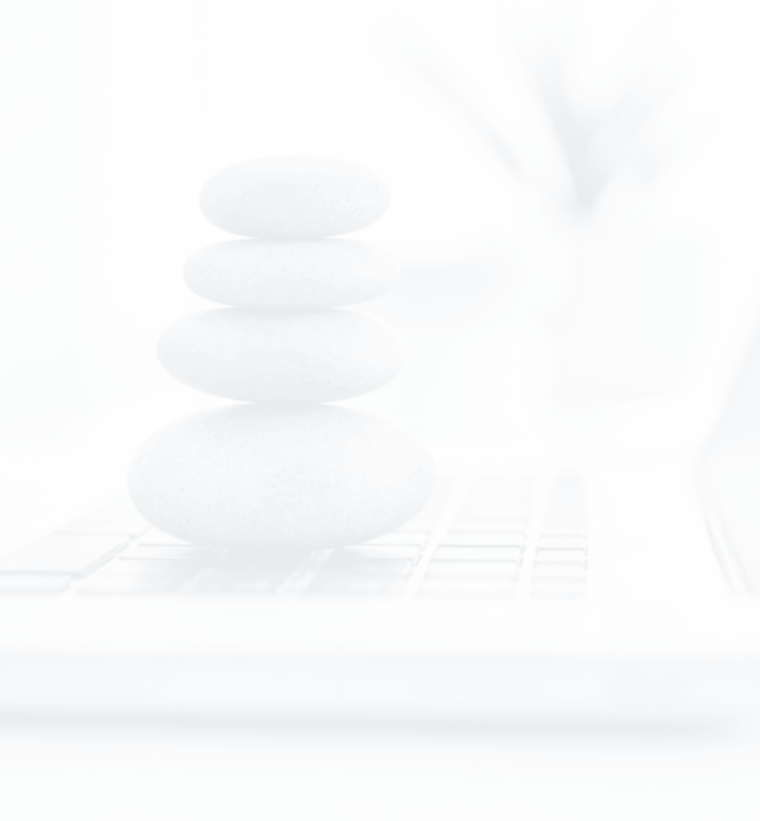
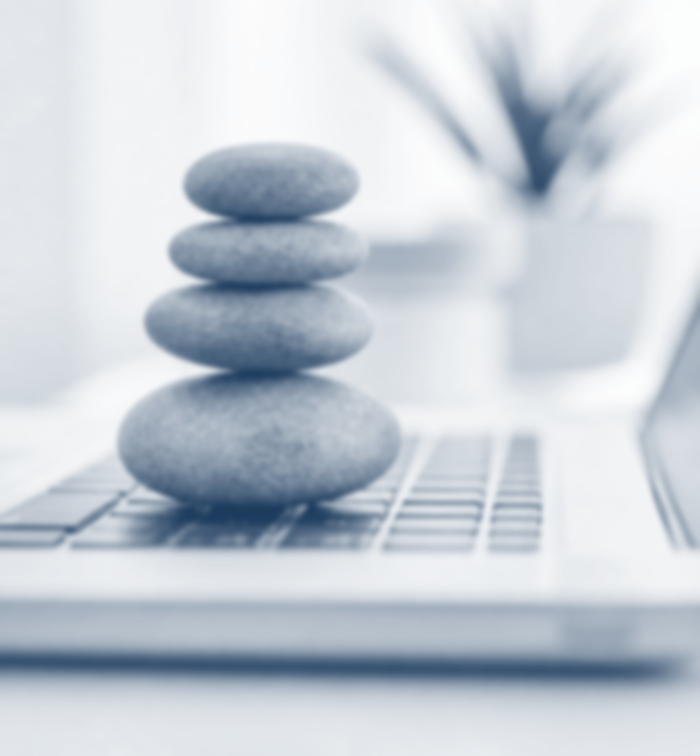
Ship watermark at full alpha; expose level as --wm-opacity
Moves the mark to a fixed body::before behind content so CSS opacity can
scale it without fading the page. html now carries the page background so
the negative z-index layer is not painted over.

diff --git a/index.html b/index.html
@@ -18,8 +18,11 @@
   --sans:"Source Sans 3",sans-serif;
 }
 *{box-sizing:border-box;margin:0;padding:0;}
-html,body{background:var(--bg);color:var(--ink);font-family:var(--sans);}
-body{background-image:url("photos/watermark.png");background-repeat:no-repeat;background-attachment:fixed;background-position:right -90px bottom -20px;background-size:auto min(88vh,900px);}
+html{background:var(--bg);}
+body{color:var(--ink);font-family:var(--sans);}
+/* watermark: tune --wm-opacity (or .wm-layer opacity) to taste */
+:root{--wm-opacity:0.10;}
+body::before{content:"";position:fixed;inset:0;z-index:-1;pointer-events:none;background:url("photos/watermark.png") no-repeat right -90px bottom -20px;background-size:auto min(88vh,900px);opacity:var(--wm-opacity);}
 a{color:var(--accent);text-decoration:none;}
 .wrap{width:min(1080px,100%);margin:0 auto;padding:0 28px;}
 .top{display:flex;align-items:center;justify-content:space-between;height:52px;border-bottom:1px solid var(--rule);}
@@ -75,7 +78,7 @@ table.papers td:first-child{font-weight:700;width:90px;}
 .bib .au{display:block;opacity:.6;font-size:11px;}
 @media (max-width:800px){.bib li{grid-template-columns:1fr;gap:2px;}}
 @media (max-width:800px){
-  body{background-image:none;}
+  body::before{display:none;}
   .hero,.play,.why,.says,.grid2,.ex{grid-template-columns:1fr;}
   .faces{grid-template-columns:96px 96px;justify-content:start;}
 }
